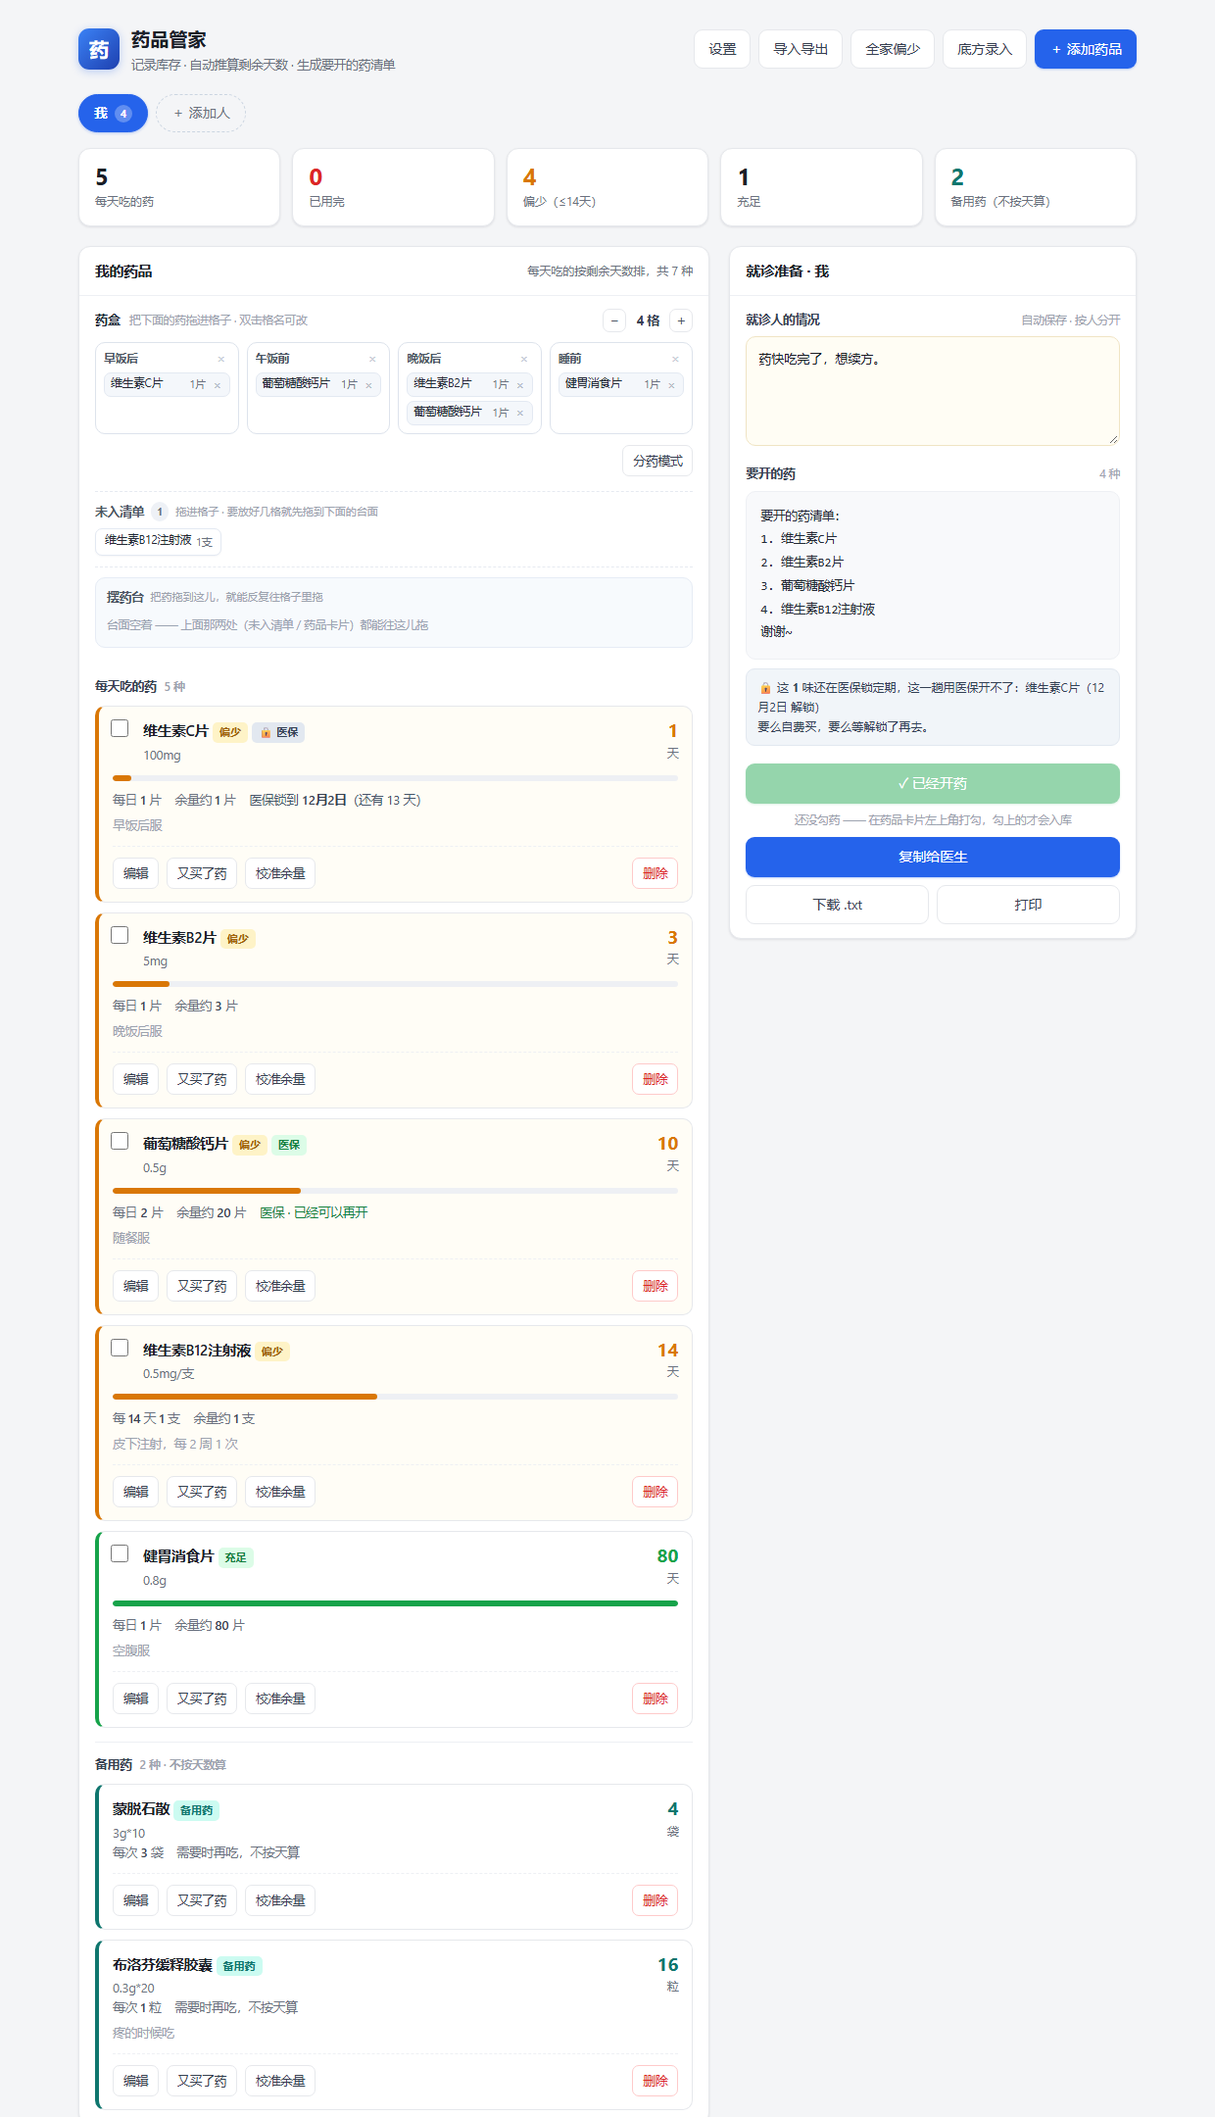
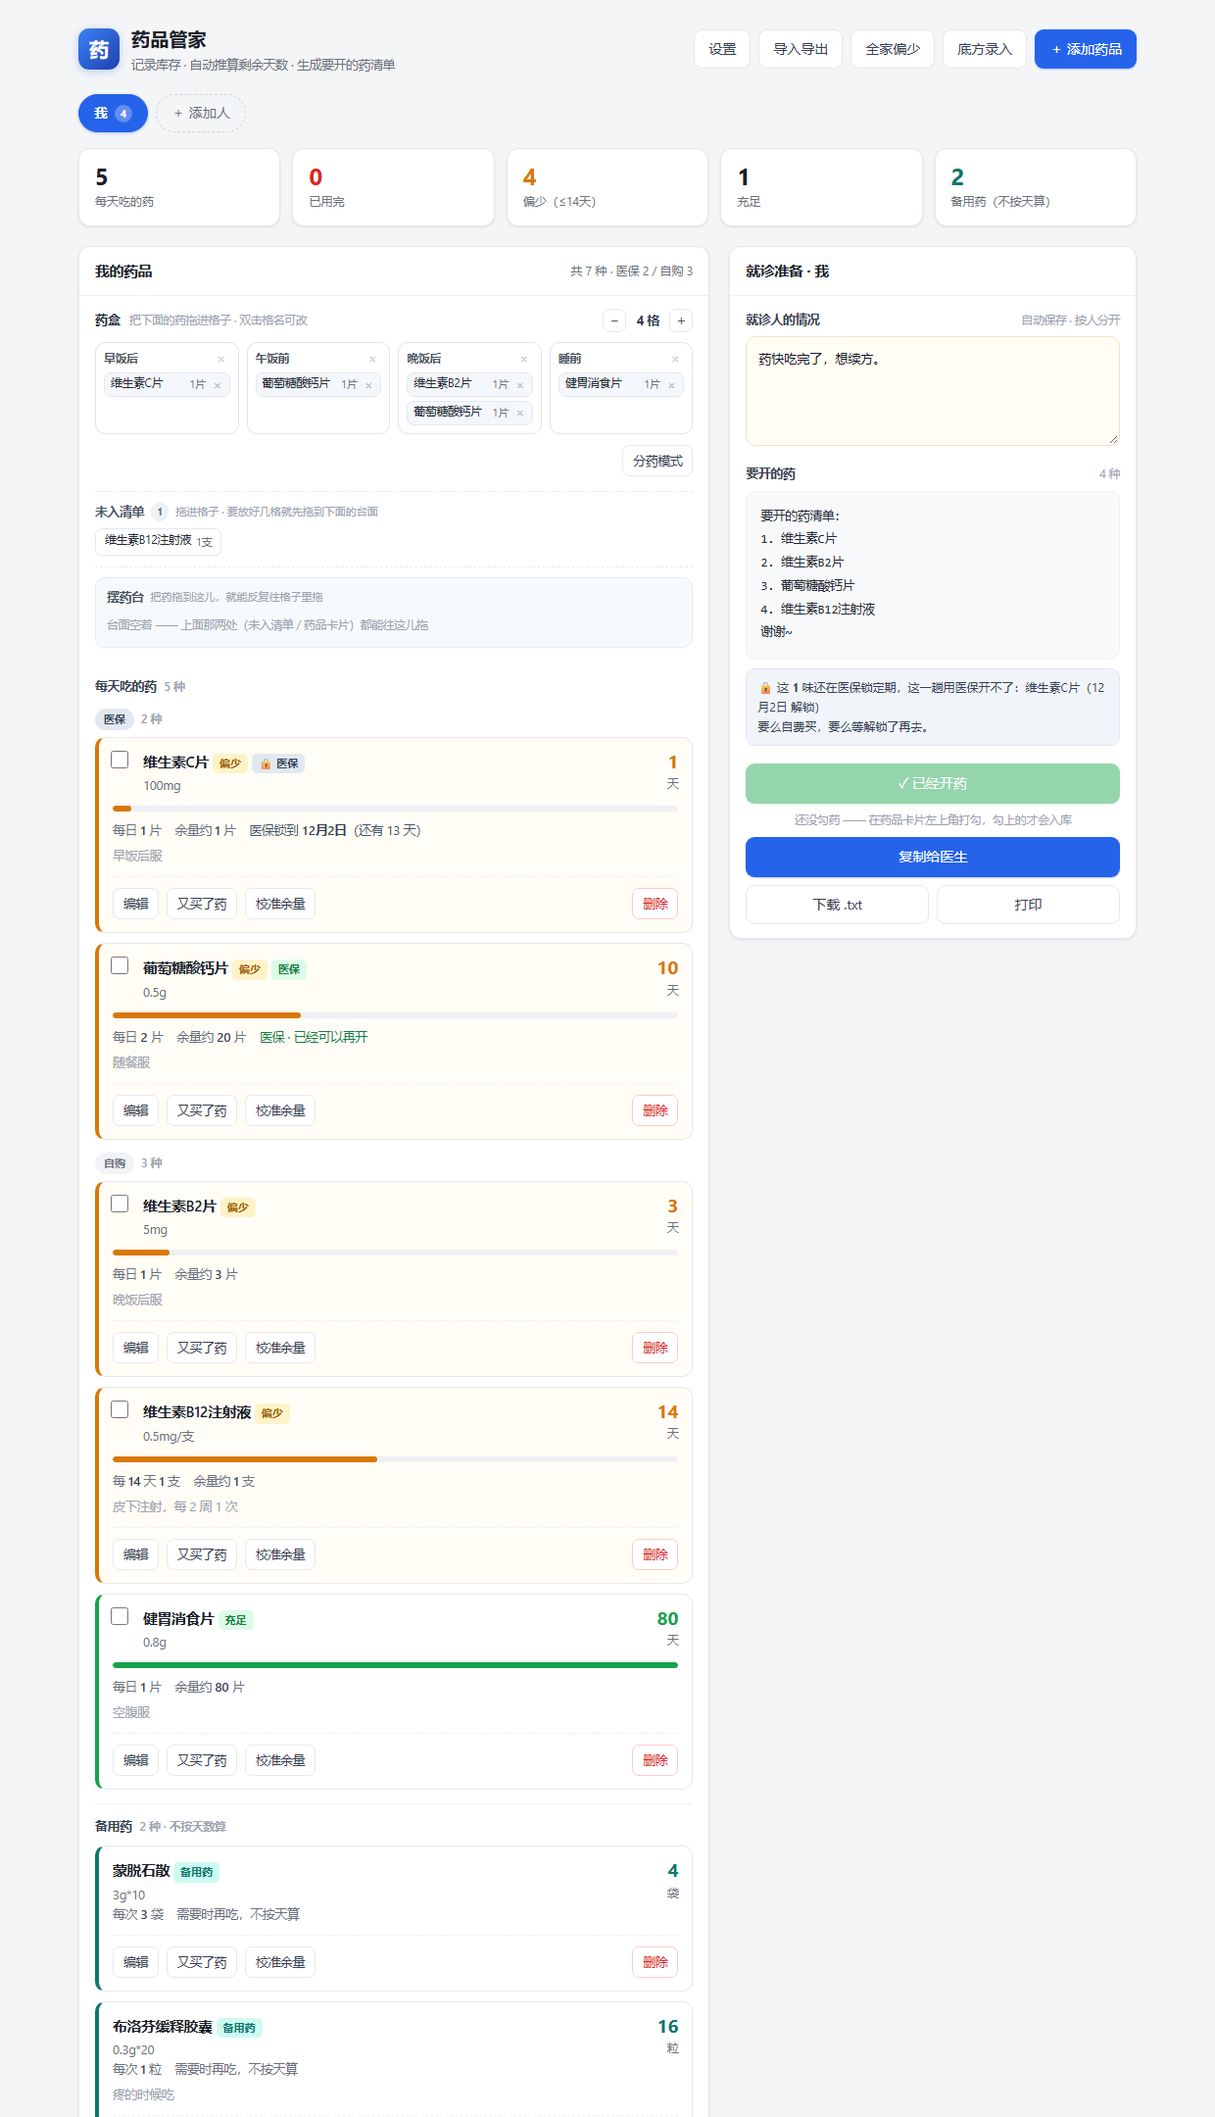
每天吃的药在清单里分成医保 / 自购两段
用户原话：
「每天吃的药要区分出是医保还是自购。在没有标明是医保的时候，就把这个药品放到自购里。
  但是如果标明了是医保就放回医保。」

- renderList 里每天吃的药按 miIsMI() 拆成两段，段标题是新增的 .sub-h
  （小药丸标签，不是 .sect-h —— 一级分组还是「每天吃的药 / 备用药」两层）
- 判据只有 ins === 'mi'：没标过的一律归自购，老存档 / 新加的 / 底方录的都不用补录；
  改标记后当场换段，条数跟着变
- 医保在前（带着锁，是要先看的那类），组内顺序沿用 sortedMeds()，不叠加第二个排序维度
- 面板右上那句改成「每天吃的 N 种 · 医保 x / 自购 y」——
  原来的「共 N 种」含备用药，跟 x+y 放一起会被拿去做加法对不上
- 备用药不进这两段（不按天算，也不参与这趟用医保开不开）
- 测试 ins 103 → 117（新增 14 条：两段的顺序/条数、没标的归自购、标了的归医保、
  备用药不参与、改标记当场换段、只有自购时那段也写出来、提示语数字对得上）
- README 补「清单里也分得开」一节；顺手补上一路漏记的 test_ins 条目、
  并把 test_app 的条数从 29 改成实际跑出来的 26
- 版本 1.8 / versionCode 9

diff --git a/index.html b/index.html
@@ -178,6 +178,19 @@ h1{font-size:19px;margin:0;font-weight:650;letter-spacing:.2px}
 .sect-h .cnt{font-size:11.5px;font-weight:600;color:var(--faint)}
 .sect-h.mt{margin-top:4px;padding-top:12px;border-top:1px solid var(--line-2)}
 
+/* ---------- 每天吃的药再按钱分两块：医保 / 自购 ----------
+   2026-11-19 用户：「每天吃的药要区分出是医保还是自购。在没有标明是医保的时候，
+   就把这个药品放到自购里。但是如果标明了是医保就放回医保。」
+   ★ 分组的唯一依据就是 ins === 'mi'（见 miIsMI）—— **没标 = 自购**，
+     老存档没有这个字段就落在自购里，不给人凭空补一个「医保」出来。
+   ★ 做成「小药丸标签」而不是再加一层带竖条的标题：卡片左边已经有一条按档位变色的
+     4px 竖条，标题再来一根，两套色条挨着会读成同一套语义。 */
+.sub-h{display:flex;align-items:center;gap:7px;margin:3px 0 -3px;
+  font-size:11.5px;font-weight:600;color:var(--faint);line-height:1.6}
+.sub-h .pill{font-size:11px;font-weight:650;padding:2px 9px;border-radius:99px;line-height:1.6}
+.sub-h .pill.mi{background:#e2e8f0;color:#334155}
+.sub-h .pill.self{background:#f1f3f6;color:#6b7280}
+
 /* ---------- 药盒：模拟分格药盒，把药拖进格子里 ----------
    为什么要有它：库存告诉你「还剩几天」，但装药那一刻要回答的是另一个问题 ——
    「今天这一格的药，我该从哪个瓶子里各拿几粒」。药盒就是回答这个的。
@@ -2253,11 +2266,27 @@ function renderList(){
   const sorted = sortedMeds();
   const dailyRows = sorted.filter(function(m){ return !isPrn(m); });
   const prnRows   = sorted.filter(isPrn);
+  // 每天吃的药再按「医保 / 自购」分两段（2026-11-19 用户要求）。
+  // ★ 判据只有 miIsMI()：标了医保的进医保段，**其余一律进自购段** ——
+  //   老的、新加的、从底方录入的，没标过就都算自购，不需要谁去「补录」。
+  // ★ 组内顺序沿用 sortedMeds()，不再按支付方式重排：一次只改一个维度，
+  //   否则「哪味快没了」和「哪味是医保」两个顺序会互相打架。
+  const miRows    = dailyRows.filter(miIsMI);
+  const selfRows  = dailyRows.filter(function(m){ return !miIsMI(m); });
 
   let html = '<div class="mlist">';
   if(dailyRows.length){
-    html += '<div class="sect-h">每天吃的药<span class="cnt">' + dailyRows.length + ' 种</span></div>'
-          + dailyRows.map(cardHTML).join('');
+    html += '<div class="sect-h">每天吃的药<span class="cnt">' + dailyRows.length + ' 种</span></div>';
+    if(miRows.length){
+      html += '<div class="sub-h"><span class="pill mi">医保</span>'
+            + '<span class="cnt" style="font-weight:600">' + miRows.length + ' 种</span></div>'
+            + miRows.map(cardHTML).join('');
+    }
+    if(selfRows.length){
+      html += '<div class="sub-h"><span class="pill self">自购</span>'
+            + '<span class="cnt" style="font-weight:600">' + selfRows.length + ' 种</span></div>'
+            + selfRows.map(cardHTML).join('');
+    }
   }
   if(prnRows.length){
     html += '<div class="sect-h' + (dailyRows.length ? ' mt' : '') + '">备用药'
@@ -2267,8 +2296,10 @@ function renderList(){
   html += '</div>';
   list.innerHTML = html;
 
+  // ⚠ 别写成「共 N 种 · 医保 x / 自购 y」—— N 含备用药，x+y 只数每天吃的，
+  //    两个数放一起会被人拿去做加法对不上。这句只说每天吃的。
   $('#listHint').textContent = dailyRows.length
-    ? '每天吃的按剩余天数排，共 ' + meds.length + ' 种'
+    ? '每天吃的 ' + dailyRows.length + ' 种 · 医保 ' + miRows.length + ' / 自购 ' + selfRows.length
     : '共 ' + meds.length + ' 种';
 
   // 事件委托

diff --git a/_check/test_ins.py b/_check/test_ins.py
@@ -452,7 +452,79 @@ PROBE = r"""
      b1 ? b1.miStart : '无');
   ck('整包备份往返：自费那味仍然没有标记', b2 && !b2.ins, b2 ? String(b2.ins) : '无');
 
-  /* ================= 12. 全程不许走原生弹窗 ================= */
+  /* ================= 12. 清单里每天吃的药分「医保 / 自购」两段（2026-11-19） ======
+     用户原话：「每天吃的药要区分出是医保还是自购。在没有标明是医保的时候，就把这个药品
+               放到自购里。但是如果标明了是医保就放回医保。」
+     钉四件事：
+       ① 每天吃的药下面真有两段，医保在前、自购在后（医保带锁，是要先看的那类）；
+       ② 没标 ins 的（老存档 / 新加的默认）都在「自购」段 —— 不做任何"补录"；
+       ③ 标了 mi 的进「医保」段 —— 用的还是同一个 ins，不另存"分类"字段；
+       ④ 把一味改成医保（再去掉标记），它**当场换段**，条数跟着变。
+     ★ 段标题是 .sub-h，**不是** .sect-h —— test_prn 里数的是 .sect-h 的个数
+       （每天吃的 / 备用药那两个），这里再塞一个 .sect-h 会把那条断言顶掉。
+     ★ segOf 遇到 .sect-h 就停：备用药卡片前面最近的一段是一级标题，
+       不是"自购"段 —— 不拦的话它会一路往上找到自购段，误判成"备用药也是自购"。 */
+  reset();
+  var dSelf = mk({ name: '自购甲片', stock: 10 });
+  var dMi   = mk({ name: '医保乙片', ins: 'mi', miStart: todayStr(), stock: 10 });
+  var dOld  = mk({ name: '老存档丙片', stock: 10 });          // 完全没有 ins / miStart
+  mk({ name: '备用丁片', kind: 'prn', stock: 3 });
+
+  function subs(){ return qa('#list .sub-h'); }
+  function subText(i){
+    return (subs()[i] ? subs()[i].textContent : '').replace(/\s+/g, ' ').trim();
+  }
+  function segOf(n){
+    var c = cardOf(n);
+    if(!c) return '(无卡片)';
+    var prev = c.previousElementSibling;
+    while(prev){
+      if(prev.classList.contains('sect-h')) return '(一级分组：' + prev.textContent.replace(/\s+/g, ' ').trim() + ')';
+      if(prev.classList.contains('sub-h')) return prev.textContent.replace(/\s+/g, ' ').trim();
+      prev = prev.previousElementSibling;
+    }
+    return '(没有段标题)';
+  }
+
+  ck('每天吃的药下面分成两段', subs().length === 2,
+     subs().map(function(el){ return el.textContent.replace(/\s+/g, ' ').trim(); }).join(' | '));
+  ck('第一段是医保、第二段是自购（医保在前）',
+     /^医保/.test(subText(0)) && /^自购/.test(subText(1)), subText(0) + ' / ' + subText(1));
+  ck('两段都带条数（医保 1 种 / 自购 2 种）',
+     /1\s*种/.test(subText(0)) && /2\s*种/.test(subText(1)), subText(0) + ' / ' + subText(1));
+  ck('★ 没标过 ins 的都落在「自购」里（新加的默认 + 老存档）',
+     /^自购/.test(segOf('自购甲片')) && /^自购/.test(segOf('老存档丙片')),
+     segOf('自购甲片') + ' | ' + segOf('老存档丙片'));
+  ck('★ 标了医保的落在「医保」里', /^医保/.test(segOf('医保乙片')), segOf('医保乙片'));
+  ck('备用药不进这两段（它归一级标题「备用药」）',
+     /一级分组/.test(segOf('备用丁片')), segOf('备用丁片'));
+  ck('提示语里「每天吃的 3 种」和「医保 1 / 自购 2」对得上',
+     /每天吃的\s*3\s*种/.test(q('#listHint').textContent)
+       && /医保\s*1\s*\/\s*自购\s*2/.test(q('#listHint').textContent),
+     q('#listHint').textContent);
+
+  // ---- 改标记 → 当场换段 ----
+  dSelf.ins = 'mi'; dSelf.miStart = todayStr(); save(); render();
+  ck('★ 把一味从自购改成医保，它当场换到医保段',
+     /^医保/.test(segOf('自购甲片')), segOf('自购甲片'));
+  ck('  两段条数跟着变（医保 2 种 / 自购 1 种）',
+     /2\s*种/.test(subText(0)) && /1\s*种/.test(subText(1)), subText(0) + ' / ' + subText(1));
+  ck('  改过来的这味照样挂上医保锁标（不是只换了位置）',
+     !!cardOf('自购甲片').querySelector('.tag.ins-lock, .tag.ins-open'), '');
+
+  dSelf.ins = ''; delete dSelf.miStart; save(); render();
+  ck('★ 去掉医保标记 → 回到自购段（分类就是 ins 本身，没有第二个字段）',
+     /^自购/.test(segOf('自购甲片')), segOf('自购甲片'));
+  ck('  回去之后医保段只剩 1 种', /1\s*种/.test(subText(0)), subText(0));
+
+  // 全是自购时：两段只剩一段也得显示 —— 否则"没标明 = 自购"这条规则在界面上没痕迹
+  setMeds([dOld]); save(); render();
+  ck('★ 只有自购的药时，那一段仍然写出来（不然看不出它们被归到哪儿了）',
+     subs().length === 1 && /^自购/.test(subText(0)), subText(0));
+  ck('  这一段的条数是 1 种', /1\s*种/.test(subText(0)), subText(0));
+  reset();
+
+  /* ================= 13. 全程不许走原生弹窗 ================= */
   ck('★ 整个过程一次都没走浏览器原生 alert / confirm / prompt',
      R.natives.length === 0, R.natives.join(' | ') || '(一次都没有)');
 

diff --git a/README.md b/README.md
@@ -422,6 +422,18 @@
 
 > **校准余量**不问来源：它只把库存数字改对，不算一次开药，锁不动。
 
+### 清单里也分得开：医保 / 自购
+
+每天吃的药在清单里分成**两段**：`医保` 和 `自购`，医保在前 —— 它带着锁，是要先看的那一类。
+
+- **没标过的都在「自购」里**：老存档、新加的、从底方录进来的，凡是没有这个标记的都归自购，
+  不用谁去补录一遍；
+- 标了医保的自动落到「医保」段；改回自费，它当场挪回去；
+- 备用药不参与这两段 —— 它本来就不按天算，「这一趟用医保开不开」也跟它没关系。
+
+> 「自购」就是别处说的「自费买的」，同一件事。分类用的还是同一个标记（`ins === 'mi'`），
+> 没有另存一个"分类"字段 —— 所以不会出现"清单说它在医保、卡片上却没锁"这种两套账。
+
 医保的那几味，药名旁边挂一把锁：
 
 - 锁着：`🔒 医保`，下面一行写「医保锁到 11月20日（还有 23 天）」
@@ -916,6 +928,7 @@ python android/build.py
 index.html                程序本体：单文件，拷走就能跑
 tools/rx_local/rx_local.py  可选的「本地解析」工具：Windows 自带 OCR 把处方照片读成药行（不联网、不上传照片）
 _check/test_rxcap.py      自检脚本 —— 无头 Chrome 跑 311 项断言（口径、入库、文案、**「已经开药」的入库数量可逐味改写（默认值＝上限换算、留空＝默认、填 0＝不入库、提交按改过的数）**、**「要开的药」按「剩余天数 < 一次最多能开几天」判**、**勾选制（只动勾上的、卡片勾选框真能点）**、中间弹窗、底方解析、#rx= 链接跨实现往返、AI 说明与「页面不认照片 / 没有后台 AI」防回潮、真药名自查、「添加药品」必填口径、底方「是谁的」+ 重复药去重、底方「对账依据」必须可见、**一次原生弹窗都不许有**，以及「README 说的和事实一致」）
+_check/test_ins.py        医保 / 自购的自检 —— 117 条（三个加药入口都能分出医保，锁到哪天是算出来的、改设置全局生效、零迁移不给老存档上锁、锁着自己开、校准余量不碰锁、「已经开药」只动勾上的、备份往返不丢标记、**清单里每天吃的药真分成医保 / 自购两段且没标的一律归自购**）
 _check/test_prn.py        备用药那一类的自检 —— 84 条（每天吃 / 备用药分得开、备用药不按天扣、不进续方清单、没有勾选框、表单必填口径两套、改类型时余量不被改写、导入导出 kind 不丢）
 _check/test_box.py        药盒的自检 —— 227 条（默认 3 格、格数 1~7、**每一格自己的删除叉**（删指定那格 / 空格不问 / 只剩一格不给删 / 两个叉不串）、格名可改、**真把 PointerEvent 打进页面**验拖拽全链路、跨格是搬不是复制、未入清单的筛选与双向拖拽、摆药台连拖三次能摆满三格、药名折行的真实布局高度、备用药拖不进、删药清盒、按人分开、导出导入不丢、脏数据清洗、确认框真的弹/按钮真的能点/Esc 与点遮罩都算取消、**分药模式**（格子上不再挤勾选框、右下角那颗按钮真能开窗、窗比通用弹窗宽、一味药一行且行高齐平、按药记所以同一味那几行一起变、**药盒里的格子和名字一点都不跟**、清空勾、不动库存、不进存档、空盒不挂按钮、**窗口上方那排成员真能换人换盒且窗不关**、**#box 真内边距所以按钮不再贴着边框**）、以及那条"类名撞车"体检）
 _check/test_all.py        全家汇总的自检 —— 74 条（只在人数 > 1 时出现且紧跟「＋ 添加人」、药名+单位合并口径、同名异单位不许相加、天数不一要如实写、**改总量后多的全给余量最少的那位（按天数不按片数）**、减药从余量最多的扣且不扣成负数、「余量最少」小标标的就是真会拿到药的人、备用药不参与分配、单人那行也能调、giveDelta 的边界、调完存盘、一个人时入口消失）
@@ -927,7 +940,7 @@ android/build.py          编 APK 的脚本（aapt2 → javac → d8 → zipalig
 android/AndroidManifest.xml  清单：连 INTERNET 权限都没有
 android/src/com/xiaotuji/drugkeeper/MainActivity.java  WebView + 返回键 + 剪贴板 + 写文件
 android/make_icon.py     画 App 图标（PIL 生成，不是手放的图）
-_check/test_app.py        Android 壳补丁的自检 —— 29 条（假造一个 window.AndroidApp，把「导出落盘 / 复制进剪贴板 / 返回键先关弹窗」这三条只有装了 App 才走的路真跑一遍；顺带验「导入导出」一个入口两项、顶栏那三个旧按钮确实没了；反面再验「没有 AndroidApp 时补丁整段不生效」）
+_check/test_app.py        Android 壳补丁的自检 —— 26 条（假造一个 window.AndroidApp，把「导出落盘 / 复制进剪贴板 / 返回键先关弹窗」这三条只有装了 App 才走的路真跑一遍；顺带验「导入导出」一个入口两项、顶栏那三个旧按钮确实没了；反面再验「没有 AndroidApp 时补丁整段不生效」）
 _check/test_wiz.py        引导式填写的自检 —— 93 条（三张表各自几步、一打开只露一步、进度栏只有图形与段数、「余量是哪天的」那格已删且**没动余量时基准不被改写**、**点哪段跳哪段**、这一格没填对就不让过且是就地红字不是弹窗、**回车 = 下一步而不是提交整张表**、备用药跳过「开药限制」、只有一格时进度栏不出现、走完 8 步存下来的每个字段、**「按数量 / 按天数」二选一填一个另一个当场算出来且只切 tab 不动值**、**第一步「取消」和「下一步」之间只剩 9px 且隐形的「上一步」不再占位**、以及"字段一个没少 / name 一个没改"）
 _check/shot.py            重新生成 docs/ 里的截图（含 390×844 的手机版四张）
 docs/                     README 用的截图（每张都在上面被引用；没有没人看的图）
@@ -943,10 +956,11 @@ LICENSE                   MIT，署名「人间小土鸡」
 
 ```bash
 python _check/test_rxcap.py       # 网页本体：311 项
+python _check/test_ins.py         # 医保 / 自购（含清单两段分组）：117 项
 python _check/test_prn.py         # 备用药那一类：84 项
 python _check/test_box.py         # 药盒 + 未入清单 + 摆药台 + 拖拽 + 折行 + 单格删除 + 分药模式 + 弹窗：227 项
 python _check/test_all.py         # 全家汇总（按药名合并 + 调总量补给余量最少的人）：74 项
-python _check/test_app.py         # Android 壳补丁（导出/复制/返回键）：29 项
+python _check/test_app.py         # Android 壳补丁（导出/复制/返回键）：26 项
 python _check/test_fam.py         # 全家偏少聚合页：50 项
 python _check/test_rx_tpl.py      # 底方提示词 + 只擦不解析的服药时间：60 项
 python _check/test_rx_local.py    # 本地解析工具：67 项（纯函数，跑得快）
